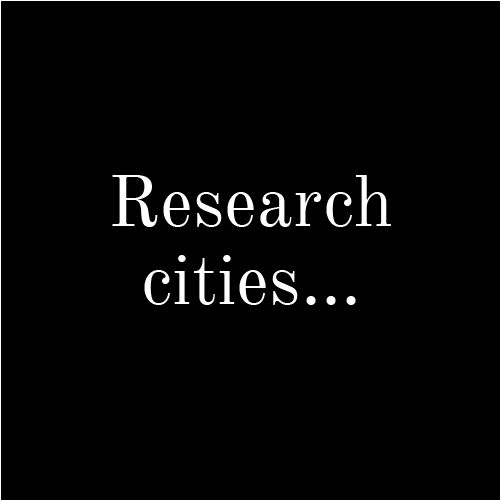
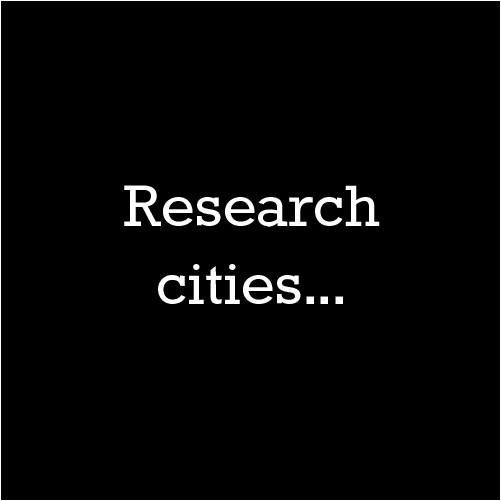
style changes

Changed region(s): [[0.2096, 0.3293, 0.7784, 0.479], [0.2695, 0.509, 0.5988, 0.6287], [0.6287, 0.5689, 0.7186, 0.6287]]

diff --git a/app/assets/stylesheets/my_style.css b/app/assets/stylesheets/my_style.css
@@ -12,6 +12,9 @@ header h1 {
   padding-top: 8px;
 }
 
+h2 {
+    font-family: 'Rokkitt', serif;
+  }
 .panel.radius {
   background-color: grey;
 }
